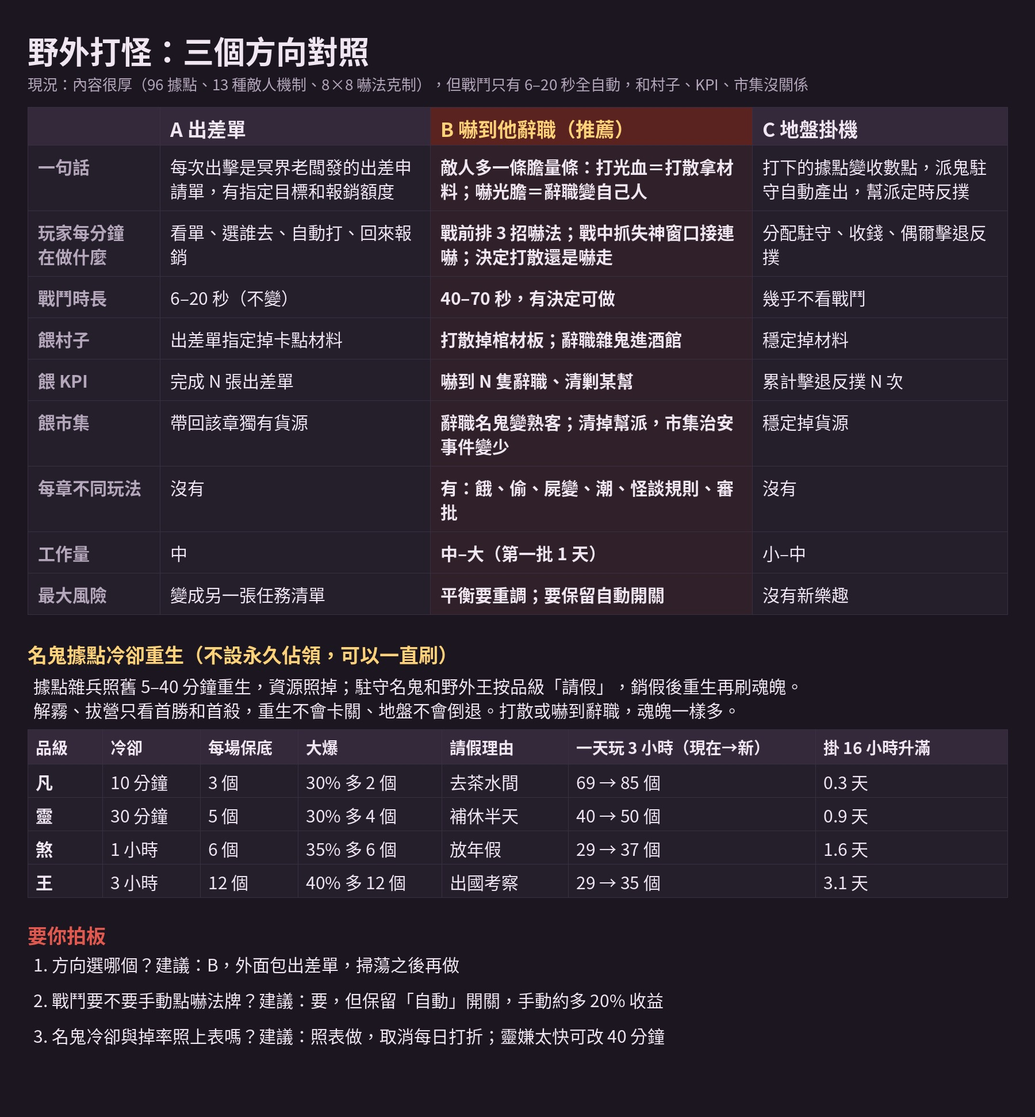
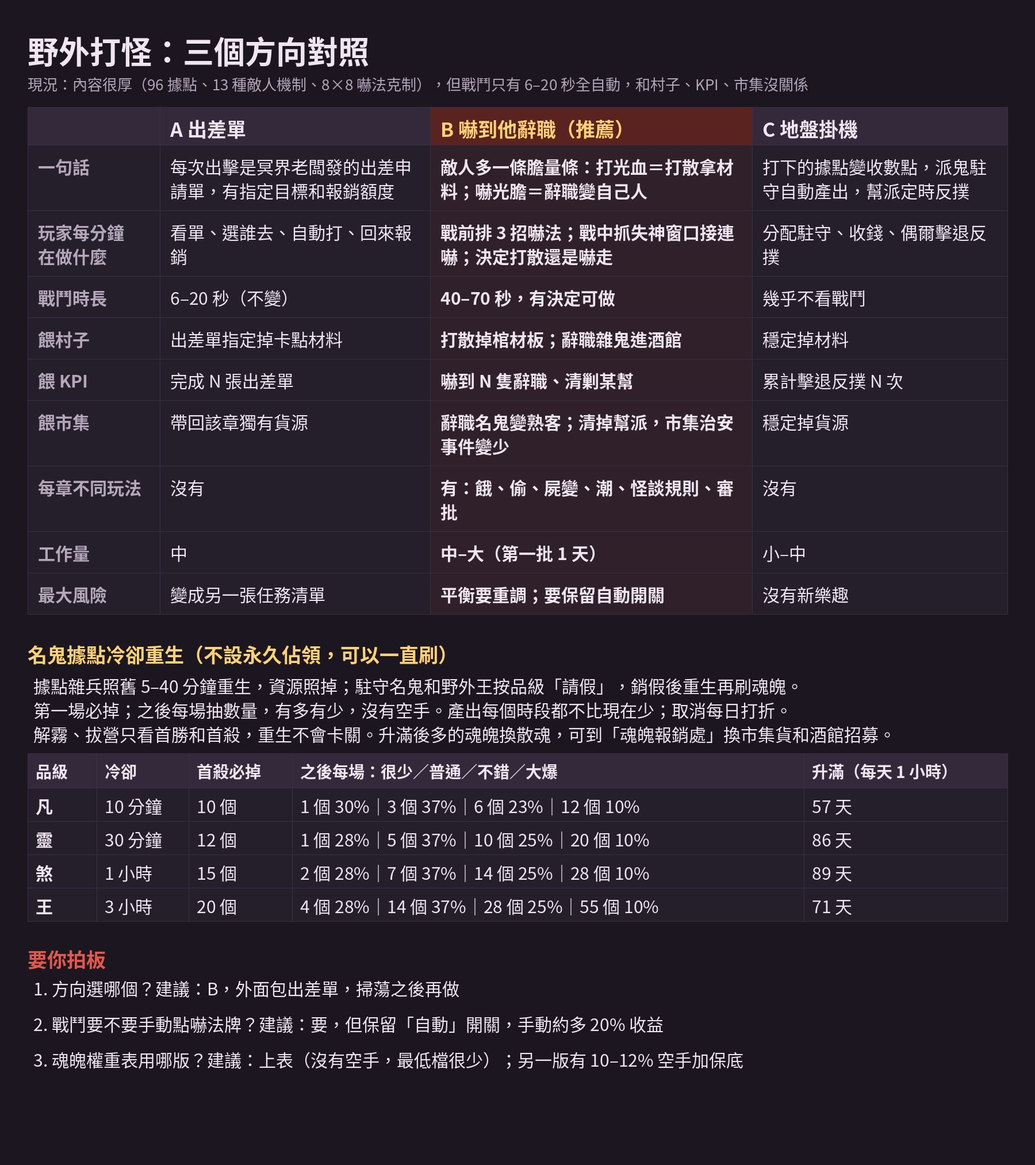
野外打怪線：魂魄改首殺必掉＋權重表（A／B 兩版模擬）、升滿消耗與天數、溢出去處、摘要圖更新

Changed region(s): [[0.0311, 0.0309, 0.9644, 0.9578], [0.0311, 0.1236, 0.0933, 0.1545]]

diff --git a/wild/soul_sim.py b/wild/soul_sim.py
@@ -1,36 +1,62 @@
+# 野外名鬼據點魂魄產出模擬（用代碼現行公式 vs 新權重表）。不跑遊戲，只算數。
+# 用法：python3 soul_sim.py
 import random, statistics
-random.seed(7)
-PRI=[3,4,5,6]; FRESH=[1,1,.5,.25]; RESP=[5,10,20,40]
-SUMMON={'凡':30,'靈':60,'煞':90,'王':120}
-RANK={'凡':110,'靈':145,'煞':175,'王':220}
-GOOD=0.7   # 假設七成場次打得好（+1）
-def cur(ring,minutes):            # 現行：每場必掉；當日同一據點第 3 場起打折
+random.seed(11)
+PRI=[3,4,5,6]; FRESH=[1,1,.5,.25]; RESP=[5,10,20,40]   # 現行：soul_data.gd PRI／FRESH、so_data.gd RESPAWN_MIN
+GOOD=0.7                                                 # 假設七成場次「打得好」（+1）
+SUMMON={'凡':30,'靈':60,'煞':90,'王':120}                # soul_data.gd SUMMON
+RANK={'凡':110,'靈':145,'煞':175,'王':220}               # RANK_COST 五級合計
+BORN={'凡':0,'靈':3,'煞':6,'王':9}                       # soul_up.gd born()
+FUSE=lambda to: round(8*1.45**to)                        # soul_up.gd fuse_cost().own
+STAR=235                                                 # STAR_SOUL 20+30+45+60+80（升到鬼王品後上限 5 星）
+def total(pin): return SUMMON[pin]+RANK[pin]+sum(FUSE(t) for t in range(BORN[pin]+1,12))+STAR
+CD={'凡':10,'靈':30,'煞':60,'王':180}                    # 新：名鬼冷卻（分鐘）
+FIRST={'凡':10,'靈':12,'煞':15,'王':20}                  # 新：首殺必掉
+# 新權重表：[(數量, 權重%)]
+A={'凡':[(0,12),(1,20),(3,35),(6,23),(12,10)],'靈':[(0,12),(2,20),(5,35),(10,23),(20,10)],
+   '煞':[(0,12),(3,20),(7,35),(14,23),(28,10)],'王':[(0,10),(6,20),(14,35),(28,25),(55,10)]}
+B={'凡':[(1,30),(3,37),(6,23),(12,10)],'靈':[(1,28),(5,37),(10,25),(20,10)],
+   '煞':[(2,28),(7,37),(14,25),(28,10)],'王':[(4,28),(14,37),(28,25),(55,10)]}
+PITY_A=2   # 版本 A：連續 2 場沒掉，第 3 場改抽「不含沒掉」的表
+def roll(tb): 
+    x=random.uniform(0,sum(w for _,w in tb))
+    for n,w in tb:
+        x-=w
+        if x<=0: return n
+    return tb[-1][0]
+def cur(ring,minutes):
     r=ring-1; t=0; n=0; s=0
     while t<=minutes:
-        mul=FRESH[min(n,3)]
         base=PRI[r]+(1 if random.random()<.3 else 0)
-        s+=max(1,round(base*mul))+(1 if random.random()<GOOD else 0)
-        n+=1; t+=RESP[r]
-    return s,n
-# 新：名鬼按品級冷卻；每場保底 g，另有 p 機率大爆 +j；連續 pity-1 場沒爆則必爆；不再有當日打折
-NEW={'凡':dict(cd=10,g=3,p=.30,j=2,pity=4),'靈':dict(cd=30,g=5,p=.30,j=4,pity=4),'煞':dict(cd=60,g=6,p=.35,j=6,pity=3),'王':dict(cd=180,g=12,p=.40,j=12,pity=3)}
-def new(pin,minutes):
-    d=NEW[pin]; t=0; n=0; s=0; miss=0
+        s+=max(1,round(base*FRESH[min(n,3)]))+(1 if random.random()<GOOD else 0); n+=1; t+=RESP[r]
+    return s
+def new(ver,pin,minutes,state=None):
+    tb=(A if ver=='A' else B)[pin]; t=0; s=0; st=state if state is not None else {'miss':0}
     while t<=minutes:
-        hit=random.random()<d['p'] or miss+1>=d['pity']
-        s+=d['g']+(d['j'] if hit else 0)+(1 if random.random()<GOOD else 0)
-        miss=0 if hit else miss+1
-        n+=1; t+=d['cd']
-    return s,n
-def avg(f,*a,N=4000):
-    xs=[f(*a) for _ in range(N)]; return statistics.mean(x[0] for x in xs), xs[0][1]
-TYP={'凡':[1,2],'靈':[2,3],'煞':[3,4],'王':[3]}   # 該品級駐守鬼常見的圈
-print('品級 | 時段 | 現行(各圈) | 新 | 新場數')
-for pin in '凡靈煞王':
-    for nm,mins in [('1小時',60),('一天玩3小時',180),('一天掛16小時',960)]:
-        c=' / '.join('第%d圈 %.0f'%(r,avg(cur,r,mins)[0]) for r in TYP[pin])
-        a,n=avg(new,pin,mins)
-        print(pin,nm,'|',c,'|','%.0f'%a,'|',n)
-    a3=avg(new,pin,180)[0]; a16=avg(new,pin,960)[0]
-    tot=SUMMON[pin]+RANK[pin]
-    print('   招降要',SUMMON[pin],'升滿共',tot,'| 每天3小時：招降 %.1f 天、升滿 %.1f 天 | 每天16小時：招降 %.1f 天、升滿 %.1f 天'%(SUMMON[pin]/a3,tot/a3,SUMMON[pin]/a16,tot/a16))
+        if ver=='A' and st['miss']>=PITY_A: n=roll([x for x in tb if x[0]>0])
+        else: n=roll(tb)
+        st['miss']=st['miss']+1 if n==0 else 0
+        s+=n+(1 if (n>0 and random.random()<GOOD) else 0); t+=CD[pin]
+    return s
+def mean(f,*a,N=6000): return statistics.mean(f(*a) for _ in range(N))
+def ev(tb): return sum(n*w for n,w in tb)/sum(w for _,w in tb)
+TYP={'凡':[1,2],'靈':[2,3],'煞':[3,4],'王':[3]}
+print('== 每場期望（不含打得好）')
+for p in '凡靈煞王': print(p,'A %.2f'%ev(A[p]),'B %.2f'%ev(B[p]),' 升滿總消耗',total(p),'（招降＋職級',SUMMON[p]+RANK[p],'）')
+print('== 產出（單一名鬼主魂；現在取常見圈較高者 → A → B）')
+res={}
+for p in '凡靈煞王':
+    for nm,m in [('1小時',60),('3小時',180),('16小時',960)]:
+        c=max(mean(cur,r,m) for r in TYP[p]); a=mean(new,'A',p,m); b=mean(new,'B',p,m); res[(p,nm)]=(c,a,b)
+        print(p,nm,'現在 %.0f → A %.0f → B %.0f'%(c,a,b))
+print('== 升滿天數（B；每天 1 小時／3 小時；冷卻離線照算，所以每次上線名鬼都在）')
+for p in '凡靈煞王':
+    d1=res[(p,'1小時')][2]; d3=res[(p,'3小時')][2]
+    print(p,'招降＋職級滿：%.0f 天／%.0f 天'%((SUMMON[p]+RANK[p])/d1,(SUMMON[p]+RANK[p])/d3),'｜全部升滿：%.0f 天／%.0f 天'%(total(p)/d1,total(p)/d3))
+print('== 手感：王（每天 1 小時＝每天打 1 場），連續 30 天')
+for ver in 'AB':
+    zero=[];low=[]
+    for _ in range(4000):
+        st={'miss':0}; xs=[new(ver,'王',0,st) for _ in range(30)]
+        zero.append(sum(1 for x in xs if x==0)); low.append(min(xs))
+    print(ver,'30 天裡空手而回的天數 平均 %.1f、最多 %d'%(statistics.mean(zero),max(zero)))

diff --git a/wild/mk_summary.py b/wild/mk_summary.py
@@ -1,0 +1,90 @@
+import sys
+from PIL import Image, ImageDraw, ImageFont
+out=sys.argv[1]
+FD='/usr/share/fonts/opentype/noto/'
+def F(sz,bold=False):
+    for n in (['NotoSansCJK-Bold.ttc','NotoSansCJK-Black.ttc'] if bold else ['NotoSansCJK-Regular.ttc','NotoSansCJK-Medium.ttc','NotoSansCJK-Bold.ttc']):
+        try: return ImageFont.truetype(FD+n,sz,index=3)   # TC
+        except Exception: pass
+    return ImageFont.truetype(FD+'NotoSerifCJK-Bold.ttc',sz,index=3)
+W=1800; PAD=48
+BG='#1b1620'; CARD='#251e2b'; INK='#efe6f2'; MUTE='#b4a6bb'; RED='#e0584e'; GOLD='#ffd27a'; LINE='#3a2f42'; OK='#6fcf97'
+cols=['','A 出差單','B 嚇到他辭職（推薦）','C 地盤掛機']
+rows=[
+ ['一句話','每次出擊是冥界老闆發的出差申請單，有指定目標和報銷額度','敵人多一條膽量條：打光血＝打散拿材料；嚇光膽＝辭職變自己人','打下的據點變收數點，派鬼駐守自動產出，幫派定時反撲'],
+ ['玩家每分鐘\n在做什麼','看單、選誰去、自動打、回來報銷','戰前排 3 招嚇法；戰中抓失神窗口接連嚇；決定打散還是嚇走','分配駐守、收錢、偶爾擊退反撲'],
+ ['戰鬥時長','6–20 秒（不變）','40–70 秒，有決定可做','幾乎不看戰鬥'],
+ ['餵村子','出差單指定掉卡點材料','打散掉棺材板；辭職雜鬼進酒館','穩定掉材料'],
+ ['餵 KPI','完成 N 張出差單','嚇到 N 隻辭職、清剿某幫','累計擊退反撲 N 次'],
+ ['餵市集','帶回該章獨有貨源','辭職名鬼變熟客；清掉幫派，市集治安事件變少','穩定掉貨源'],
+ ['每章不同玩法','沒有','有：餓、偷、屍變、潮、怪談規則、審批','沒有'],
+ ['工作量','中','中–大（第一批 1 天）','小–中'],
+ ['最大風險','變成另一張任務清單','平衡要重調；要保留自動開關','沒有新樂趣'],
+]
+cw=[230,470,560,444]
+ft=F(30); fb=F(30,True); fh=F(34,True); ftitle=F(54,True); fsub=F(30)
+def wrap(d,txt,font,w):
+    lines=[]
+    for para in txt.split('\n'):
+        cur=''
+        for ch in para:
+            if d.textlength(cur+ch,font=font)>w: lines.append(cur); cur=ch
+            else: cur+=ch
+        lines.append(cur)
+    return lines
+tmp=Image.new('RGB',(10,10)); d=ImageDraw.Draw(tmp)
+LH=42
+def rh(r):
+    return max(len(wrap(d,c,fb if i in(0,2) else ft,cw[i]-36)) for i,c in enumerate(r))*LH+30
+heights=[rh(r) for r in rows]
+qs=['1. 方向選哪個？建議：B，外面包出差單，掃蕩之後再做',
+    '2. 戰鬥要不要手動點嚇法牌？建議：要，但保留「自動」開關，手動約多 20% 收益',
+    '3. 魂魄權重表用哪版？建議：上表（沒有空手，最低檔很少）；另一版有 10–12% 空手加保底']
+qh=[len(wrap(d,q,ft,W-2*PAD-40))*LH for q in qs]
+H=PAD+70+50+30+70+sum(heights)+40+50+sum(qh)+20*len(qs)+PAD+44+58+5*LH+14+60+4*58
+im=Image.new('RGB',(W,H),BG); d=ImageDraw.Draw(im)
+y=PAD
+d.text((PAD,y),'野外打怪：三個方向對照',font=ftitle,fill=INK); y+=78
+d.text((PAD,y),'現況：內容很厚（96 據點、13 種敵人機制、8×8 嚇法克制），但戰鬥只有 6–20 秒全自動，和村子、KPI、市集沒關係',font=F(26),fill=MUTE); y+=60
+x=PAD
+for i,c in enumerate(cols):
+    d.rectangle([x,y,x+cw[i],y+66],fill=('#5a231f' if i==2 else '#33293b'),outline=LINE)
+    d.text((x+18,y+12),c,font=fh,fill=(GOLD if i==2 else INK)); x+=cw[i]
+y+=66
+for r,h in zip(rows,heights):
+    x=PAD
+    for i,c in enumerate(r):
+        d.rectangle([x,y,x+cw[i],y+h],fill=('#2f2029' if i==2 else CARD),outline=LINE)
+        f=fb if i in(0,2) else ft
+        col=MUTE if i==0 else (INK)
+        yy=y+15
+        for ln in wrap(d,c,f,cw[i]-36):
+            d.text((x+18,yy),ln,font=f,fill=col); yy+=LH
+        x+=cw[i]
+    y+=h
+
+y+=44
+d.text((PAD,y),'名鬼據點冷卻重生（不設永久佔領，可以一直刷）',font=fh,fill=GOLD); y+=58
+for ln in ['據點雜兵照舊 5–40 分鐘重生，資源照掉；駐守名鬼和野外王按品級「請假」，銷假後重生再刷魂魄。','第一場必掉；之後每場抽數量，有多有少，沒有空手。產出每個時段都不比現在少；取消每日打折。','解霧、拔營只看首勝和首殺，重生不會卡關。升滿後多的魂魄換散魂，可到「魂魄報銷處」換市集貨和酒館招募。']:
+    for l2 in wrap(d,ln,ft,W-2*PAD-20):
+        d.text((PAD+10,y),l2,font=ft,fill=INK); y+=LH
+y+=14
+c2=['品級','冷卻','首殺必掉','之後每場：很少／普通／不錯／大爆','升滿（每天 1 小時）']
+w2=[120,160,180,890,354]
+r2=[['凡','10 分鐘','10 個','1 個 30%｜3 個 37%｜6 個 23%｜12 個 10%','57 天'],['靈','30 分鐘','12 個','1 個 28%｜5 個 37%｜10 個 25%｜20 個 10%','86 天'],['煞','1 小時','15 個','2 個 28%｜7 個 37%｜14 個 25%｜28 個 10%','89 天'],['王','3 小時','20 個','4 個 28%｜14 個 37%｜28 個 25%｜55 個 10%','71 天']]
+x=PAD
+for i,c in enumerate(c2):
+    d.rectangle([x,y,x+w2[i],y+60],fill='#33293b',outline=LINE); d.text((x+14,y+10),c,font=F(28,True),fill=INK); x+=w2[i]
+y+=60
+for r in r2:
+    x=PAD
+    for i,c in enumerate(r):
+        d.rectangle([x,y,x+w2[i],y+58],fill=CARD,outline=LINE); d.text((x+14,y+9),c,font=(fb if i==0 else ft),fill=INK); x+=w2[i]
+    y+=58
+y+=40
+d.text((PAD,y),'要你拍板',font=fh,fill=RED); y+=54
+for q in qs:
+    for ln in wrap(d,q,ft,W-2*PAD-40):
+        d.text((PAD+10,y),ln,font=ft,fill=INK); y+=LH
+    y+=20
+im.save(out,quality=92); print(im.size)

diff --git a/wild/design_wild_v1.md b/wild/design_wild_v1.md
@@ -22,7 +22,7 @@
 | 敵人機制 | 13 種（隱、突襲、嚇氣光環、再生、散骨、殼、屍變、霸體、召喚、迷魂、飛、反傷、分身），按章逐步登場 | `counter.json` mech、mech_intro；`game/rts/abil.gd` |
 | 鬼幫 | 每章東南西北 4 個幫，共 24 個（如餓鬼坑幫、義莊屍隊、集團保安部） | `counter.json` gangs |
 | 八大軍團 | 54 隻、每軍團 3 營，已做好但**沒掛到任何地圖**（等第 7–12 張圖） | `game/legion/lg_data.gd` CAMP_ON＝false |
-| 掃蕩 | **沒有**。打過的據點只能等重生再打一次 | 全代碼無自動掃蕩 |
+| 掃蕩 | **有**，叫「抄功課」：同一據點贏過 3 次後可用，全部據點每天共 20 次，鬼力要有上次贏時的九成（第一版摸底漏看，已更正） | `game/soul/soul2.gd:14–16、173–227` |
 
 結論：**內容和引擎其實很厚**（96 據點、13 機制、8×8 克制、24 幫），問題不在「沒東西」，而在玩家感受不到。
 
@@ -38,7 +38,7 @@
 | 6 | 出擊時村子停擺、包子產線停工 | meter_parsed.md「小紙暫時離開」出現 6 次 | **補丁 56 已解決**（出擊時產線照開） |
 | 7 | 野外和村子、KPI、市集沒關係：掉的只是冥幣和棺材板，打不打都一樣 | `so_data.gd` reward() | **未解決** |
 | 8 | 打擊感弱 | design_inventory 假設 4 | **爽感包已解決**：暴擊大字、連殺、終結慢鏡、王登場 |
-| 9 | 清完就沒事做，只能乾等 5–40 分鐘重生 | RESPAWN_MIN | **未解決** |
+| 9 | 清完就沒事做，只能等 5–40 分鐘重生；「抄功課」每天上限 20 次，入口深 | RESPAWN_MIN、`soul2.gd` | **部分解決** |
 | 10 | 野外點擊誤觸 | 老闆截圖 | **補丁 55 已解決**（野外點擊優先） |
 
 ## 二、三個方向
@@ -164,26 +164,54 @@
 把「據點」和「名鬼」分開冷卻：
 
 - **據點雜兵**：照舊按圈 5／10／20／40 分鐘重生，冥幣、棺材板、貨源照掉。資源產出不會因為這次改動變少。
-- **駐守名鬼**：被打倒後按品級進入冷卻。冷卻期間據點仍然可以打，由「代班頭目」頂替，不掉主魂（代碼已有這條分支 `guard_live`）。
+- **駐守名鬼**：被打倒後按品級進入冷卻（見下表）。冷卻期間據點仍然可以打，由「代班頭目」頂替，不掉主魂（代碼已有這條分支 `guard_live`）。
 - **野外王**：首殺照舊記錄為永久（章節解放用），之後按品級冷卻重生，可以再打、再掉魂魄。
 
-| 品級 | 冷卻 | 每場保底主魂 | 大爆機率與數量 | 保底 | 冷卻時木牌顯示 |
+**老闆 15:00 定案**：每隻名鬼第一次打贏必掉固定數量；之後每場按權重表抽數量，有多有少。冷卻按品級，取消每日打折。
+
+| 品級 | 冷卻 | 首殺必掉 | 木牌顯示 |
+|---|---|---|---|
+| 凡 | 10 分鐘 | 10 個 | 「去茶水間　09:59」 |
+| 靈 | 30 分鐘 | 12 個 | 「補休半天　29:59」 |
+| 煞 | 1 小時 | 15 個 | 「放年假　59:59」 |
+| 王 | 3 小時 | 20 個 | 「出國考察　2:59:59」 |
+
+之後每場的權重表（**推薦版本 B：沒有「這場沒掉」，但最低檔很少**）：
+
+| 檔位 | 凡 | 靈 | 煞 | 王 | 結算文案 |
 |---|---|---|---|---|---|
-| 凡 | 10 分鐘 | 3 | 30% 多 2 個 | 連續 3 場沒爆，第 4 場必爆 | 「去茶水間　09:59」 |
-| 靈 | 30 分鐘 | 5 | 30% 多 4 個 | 連續 3 場沒爆，第 4 場必爆 | 「補休半天　29:59」 |
-| 煞 | 1 小時 | 6 | 35% 多 6 個 | 連續 2 場沒爆，第 3 場必爆 | 「放年假　59:59」 |
-| 王 | 3 小時 | 12 | 40% 多 12 個 | 連續 2 場沒爆，第 3 場必爆 | 「出國考察　2:59:59」 |
+| 很少 | 1 個（30%） | 1 個（28%） | 2 個（28%） | 4 個（28%） | 「魂魄被他報銷走了，只剩零頭。」 |
+| 普通 | 3 個（37%） | 5 個（37%） | 7 個（37%） | 14 個（37%） | 「照章辦事，魂魄如數上繳。」 |
+| 不錯 | 6 個（23%） | 10 個（25%） | 14 個（25%） | 28 個（25%） | 「加班費到帳了。」 |
+| 大爆 | 12 個（10%） | 20 個（10%） | 28 個（10%） | 55 個（10%） | 「年終獎金！他把整年的魂都吐出來了。」 |
+| 每場期望 | 4.0 | 6.6 | 9.5 | 18.8 | |
+
+對照版本 A（有「這場沒掉」，連續 2 場沒掉則第 3 場必掉）：
+
+| 檔位 | 凡 | 靈 | 煞 | 王 | 結算文案 |
+|---|---|---|---|---|---|
+| 沒掉 | 0（12%） | 0（12%） | 0（12%） | 0（10%） | 「他把魂魄帶去請假了。」 |
+| 很少 | 1（20%） | 2（20%） | 3（20%） | 6（20%） | 同上表 |
+| 普通 | 3（35%） | 5（35%） | 7（35%） | 14（35%） | 同上表 |
+| 不錯 | 6（23%） | 10（23%） | 14（23%） | 28（25%） | 同上表 |
+| 大爆 | 12（10%） | 20（10%） | 28（10%） | 55（10%） | 同上表 |
+| 每場期望 | 3.8 | 6.5 | 9.1 | 18.6 | |
+
+兩個版本的最高檔都是最低有掉檔的 9–14 倍，差距明顯。
+
+**推薦 B 的理由**：王要等 3 小時才能打一場，每天玩 1 小時的玩家一天只打到 1 場。版本 A 模擬 30 天，平均有 3 天空手而回，最倒楣的有 10 天；版本 B 是 0 天。兩版期望幾乎一樣，B 的「只掉 1 個、被報銷走了」已經夠有落差感，不需要用空手來製造起伏。
 
 其他規則：
 
 | 項目 | 建議 |
 |---|---|
-| 「打得好」+1、首勝加成、副魂、散魂 | 全部照舊 |
+| 「打得好」+1、副魂、散魂 | 全部照舊（沒掉魂魄的場次不加「打得好」） |
+| 原本按圈的首勝加成（10／8／6／6） | 由上表「首殺必掉」取代 |
 | 「怨氣」每日打折 | 取消，改由冷卻控制 |
 | 離線 | 冷卻照算（現在就是用真實時間） |
 | 地圖顯示 | 據點木牌寫請假理由和倒數；名鬼立繪變灰，旁邊站代班頭目 |
 | 重生提示 | 地圖上木牌亮起、名鬼頭頂冒泡「銷假了」；出擊清單該據點加「可刷」標記。不彈窗、不打斷 |
-| 顯示文字 | 出擊卡寫明「保底 N 個，XX% 機率多 M 個，再 K 場必爆」，數字和實際計算一致 |
+| 顯示文字 | 出擊卡直接列出四檔的數量和百分比。介面和抽獎**讀同一張資料表**（放在 `soul.json`），不另外寫死文字；測試每品級抽 10 萬次，實測比例和顯示的百分比相差不超過 1 個百分點 |
 
 ### 5.3 不會卡關、地盤不會倒退
 
@@ -204,40 +232,78 @@
 | 問題 | 處理 |
 |---|---|
 | 辭職一次就永久沒得刷？ | 不會。辭職只是「這一任辭職」。冷卻結束後，名鬼被冥界老闆退回辭職信、叫回來上班，照樣重生 |
-| 打散和辭職，魂魄有差嗎？ | **魂魄完全一樣**（同一套保底和大爆），不會因為選哪個而少刷 |
+| 打散和辭職，魂魄有差嗎？ | **魂魄完全一樣**（抽同一張權重表），不會因為選哪個而少刷 |
 | 那兩個選擇差在哪？ | 打散：材料多一半（棺材板等）。辭職：該名鬼在冷卻期間以客人身分去逛市集，熟客好感 +1；同場雜兵進酒館招募池 |
 | 冷卻的包裝 | 打散＝「請假養傷」；辭職＝「離職冷靜期，去市集消費」。兩者冷卻時間相同 |
 | 招降 | 仍然只靠魂魄在祭壇招降，辭職不會直接變成我方名鬼 |
 
-### 5.5 模擬結果（單一名鬼的主魂，每種情況跑 4000 次取平均）
+### 5.5 升級消耗與模擬結果
 
-腳本：`wild/soul_sim.py`，用代碼裡現行公式和上表新方案對比；假設七成場次「打得好」。這是用公式算的，沒有進遊戲實測。
+腳本：`wild/soul_sim.py`，用代碼現行公式和新權重表對比，每種情況跑 6000 次取平均；假設七成場次「打得好」（+1）。這是用公式算的，沒有進遊戲實測。
 
-| 品級 | 玩 1 小時（現在 → 新） | 一天玩 3 小時（現在 → 新） | 一天掛 16 小時（現在 → 新） | 新方案升滿要幾天（每天 3 小時／16 小時） |
-|---|---|---|---|---|
-| 凡 | 28 → 31 | 69 → 85 | 334 → 435 | 1.6 天／0.3 天 |
-| 靈 | 19 → 21 | 40 → 50 | 173 → 239 | 4.1 天／0.9 天 |
-| 煞 | 17 → 18 | 29 → 37 | 107 → 162 | 7.1 天／1.6 天 |
-| 王 | 17 → 18 | 29 → 35 | 107 → 111 | 9.7 天／3.1 天 |
+**一隻名鬼升到滿要多少本鬼魂魄**（代碼現行消耗表）：
 
-「現在」取該品級常見圈數中較高的一個。升滿＝招降＋升到合夥人（凡 140、靈 205、煞 265、王 340 個魂魄）。
+| 品級 | 招降 | 職級 5 級 | 品階融合到鬼王・上品 | 5 星突破 | 合計 | 位置 |
+|---|---|---|---|---|---|---|
+| 凡 | 30 | 110 | 1510 | 235 | **1885** | `soul_data.gd:16、24`；`soul_up.gd:83`（每階 8×1.45^階）、`:20` |
+| 靈 | 60 | 145 | 1457 | 235 | **1897** | 同上 |
+| 煞 | 90 | 175 | 1297 | 235 | **1797** | 同上 |
+| 王 | 120 | 220 | 806 | 235 | **1381** | 同上 |
+
+融合另外還要同系其他鬼的魂魄（本鬼數量的一半）、散魂、冥幣，煞鬼階以上要「精魄」（只有野外王 3%、魔王 6% 機率掉）。所以實際比表上更久。
+
+**每段時間的產出**（單一名鬼主魂，現在 → 版本 A → 版本 B）：
+
+| 品級 | 玩 1 小時 | 玩 3 小時 | 掛 16 小時 |
+|---|---|---|---|
+| 凡 | 28 → 31 → 33 | 69 → 84 → 89 | 334 → 432 → 455 |
+| 靈 | 20 → 21 → 22 | 40 → 50 → 51 | 173 → 233 → 242 |
+| 煞 | 17 → 19 → 20 | 29 → 39 → 40 | 107 → 165 → 173 |
+| 王 | 17 → 19 → 19 | 29 → 39 → 38 | 107 → 116 → 116 |
+
+「現在」取該品級常見圈數中較高的一個。兩個版本在每個品級、每個時段都不比現在少。
+
+**版本 B 升滿要幾天**（冷卻離線照算，所以每次上線名鬼都在）：
+
+| 品級 | 招降＋職級滿（每天 1 小時／3 小時） | 全部升滿（每天 1 小時／3 小時） |
+|---|---|---|
+| 凡 | 4 天／2 天 | 57 天／21 天 |
+| 靈 | 9 天／4 天 | 86 天／37 天 |
+| 煞 | 13 天／7 天 | 89 天／44 天 |
+| 王 | 18 天／9 天 | 71 天／36 天 |
 
 結論：
 
-- 每個品級、每個時段都不比現在少。
-- 煞、王就算一天掛 16 小時也不會一天刷滿（1.6 天、3.1 天）。
-- 靈在一天掛 16 小時的極端情況下 0.9 天可升滿，現在是 1.2 天；凡現在就能一天升滿。如果覺得靈太快，把冷卻改成 40 分鐘即可。
-- 以上是只刷一隻名鬼；雙駐守和副魂沒算進去，實際只會更多。
+- 高品階是長期目標：只刷一隻名鬼也要 1 到 3 個月才升滿，而名鬼有 85 隻以上，不會幾天就沒東西刷。
+- 招降和職級這段，品級越高越久（4 → 9 → 13 → 18 天），符合稀有度。
+- **一個要注意的現象**：王的「全部升滿」總量（1381）反而比凡（1885）少，因為王出生就在高品階，少融合 9 階。這是現行消耗表的結果，不是這次改動造成的。要不要調是另一個決定，這裡沒動。
+
+### 5.7 升滿之後多出的魂魄去哪
+
+| 項目 | 現況 | 位置 |
+|---|---|---|
+| 現有去處 | 名鬼升到合夥人後，新拿到的本鬼魂魄自動換成散魂（數量 × 品值 1–4） | `soul_data.gd:284` gain() |
+| 散魂的用途 | 招降、升職時頂替最多一半魂魄；品階融合每階要 10 × 階數 | `soul_data.gd:19–20、32`；`soul_up.gd:84` |
+| **發現一個疑似問題** | 星級突破要求「職級已到合夥人」**而且**要本鬼魂魄 20–80 個；品階融合也要本鬼魂魄。但到了合夥人，新魂魄已被自動換成散魂，照代碼看，突破和融合只能用升合夥人之前存下的魂魄。沒有實機驗證，需要程序確認 | `soul_data.gd:284` 對 `soul_up.gd:133–141、90` |
+| 全部升滿之後 | 散魂只進不出，沒有去處 | — |
+
+建議：
+
+1. 自動換散魂的條件改成「職級、品階、星級全部到頂」才換，否則先留著本鬼魂魄。
+2. 新增散魂去處「魂魄報銷處」（設在市集管理處，甄好賣經手）：散魂換市集當章獨有貨源、酒館刷新券、稀有普通鬼的招募資格。價格之後跟市集線對數值。
+
+這樣刷到滿仍然有理由繼續打。
 
 ### 5.6 要改的檔
 
 | 檔 | 改動 |
 |---|---|
 | `game/sortie/so_data.gd` | 存檔加名鬼冷卻時間；settle() 寫入；state() 分「名鬼在／請假中」 |
-| `game/soul/soul_data.gd` | on_sortie_win() 換成保底＋大爆＋保底計數；取消 FRESH；on_king() 改成可重複 |
+| `game/soul/soul_data.gd` | on_sortie_win() 換成首殺必掉＋權重表抽數量；取消 FRESH；on_king() 改成可重複；gain() 自動換散魂的條件 |
+| `data/nat/soul.json` | 新增權重表（介面和抽獎共用） |
 | `game/zone/zone_data.gd`、`zone_view.gd` | 野外王首殺記錄和重生分開；重生後可再挑戰 |
 | `game/sortie/so_view.gd` | 木牌請假理由與倒數、出擊卡掉率文字 |
-| 測試 | 冷卻各品級、離線照算、保底必爆、重生不影響解霧／拔營、顯示掉率＝實際掉率（各跑 1 萬次統計） |
+| 測試 | 冷卻各品級、離線照算、首殺必掉、權重表比例、重生不影響解霧／拔營、顯示掉率＝實際掉率（各跑 1 萬次統計） |
 
 ## 六、要老闆拍板的三個問題
 
@@ -245,6 +311,8 @@
 |---|---|---|
 | 1 | 方向選哪個？ | **B「嚇到他辭職」**，外包出差單，掃蕩後做 |
 | 2 | 戰鬥要不要玩家手動點嚇法牌？ | **要，但保留「自動」開關**；手動比自動多約 20% 收益，不強迫 |
-| 3 | 名鬼冷卻與掉率照 5.2 的表嗎？（凡 10 分鐘、靈 30 分鐘、煞 1 小時、王 3 小時；取消每日打折） | **照表做**；靈如果嫌太快改 40 分鐘 |
+| 3 | 魂魄權重表用哪版？B 沒有「這場沒掉」但最低檔很少；A 有「沒掉」加保底 | **B**；數量和百分比照 5.2 的表 |
+
+另外兩件已照建議寫入、老闆不同意再改：冷卻時間（凡 10 分鐘、靈 30 分鐘、煞 1 小時、王 3 小時）；升滿後的散魂去處「魂魄報銷處」（5.7）。
 
 原第 3 題（辭職的名鬼能不能直接變我方）已由 5.4 定案為建議做法：不直接變，招降仍靠魂魄，辭職只加市集熟客好感。老闆不同意再改。
